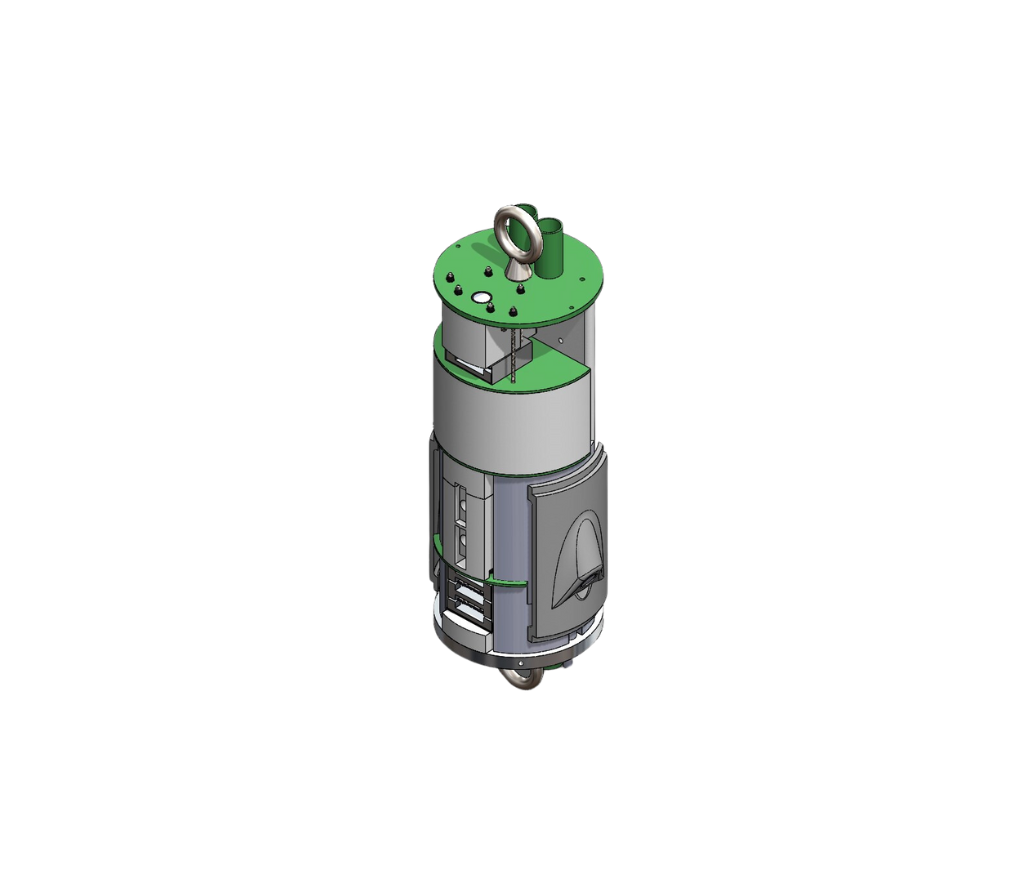
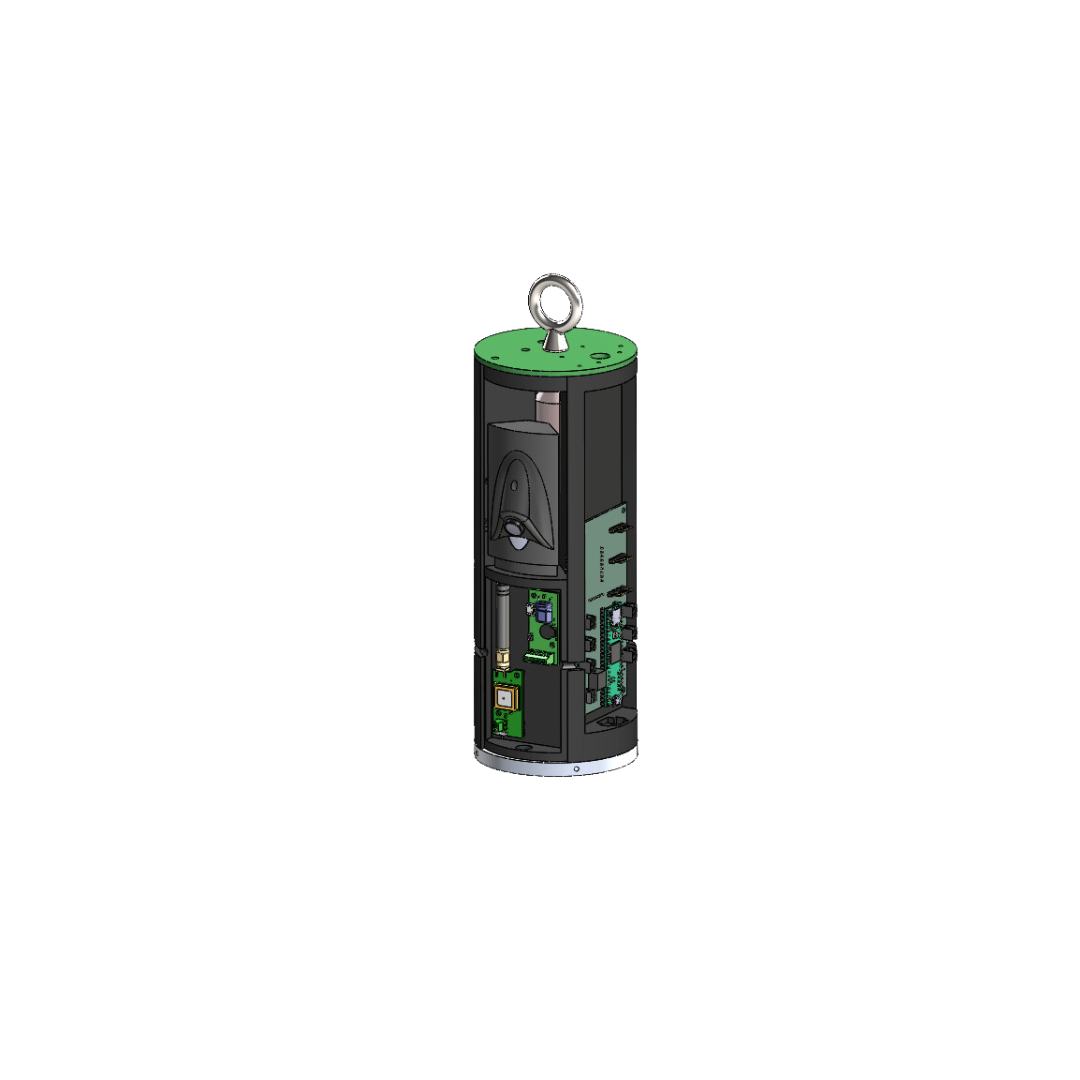
add AV bay V3

Changed region(s): [[0.4031, 0.2116, 0.5891, 0.7861]]

diff --git a/README.md b/README.md
@@ -24,7 +24,7 @@ This repository contains the code and documentation for the flight computer used
   <img src="images/featherweight_alt_gps.png" alt="Electronics Mount CAD Design" width="80%" style="display: inline-block;">
 </div>
 
-## Electronics Mount CAD Design by `Caelan Babenko`
+## Electronics Mount CAD Design by `Jordan Birley` and `Caelan Babenko`
 The electronics mount CAD design showcases the placement of PCBs within the rocket's fuselage. This design ensures the flight computer's and associated components' proper integration and protection.
 
 <div style="text-align: center;">
